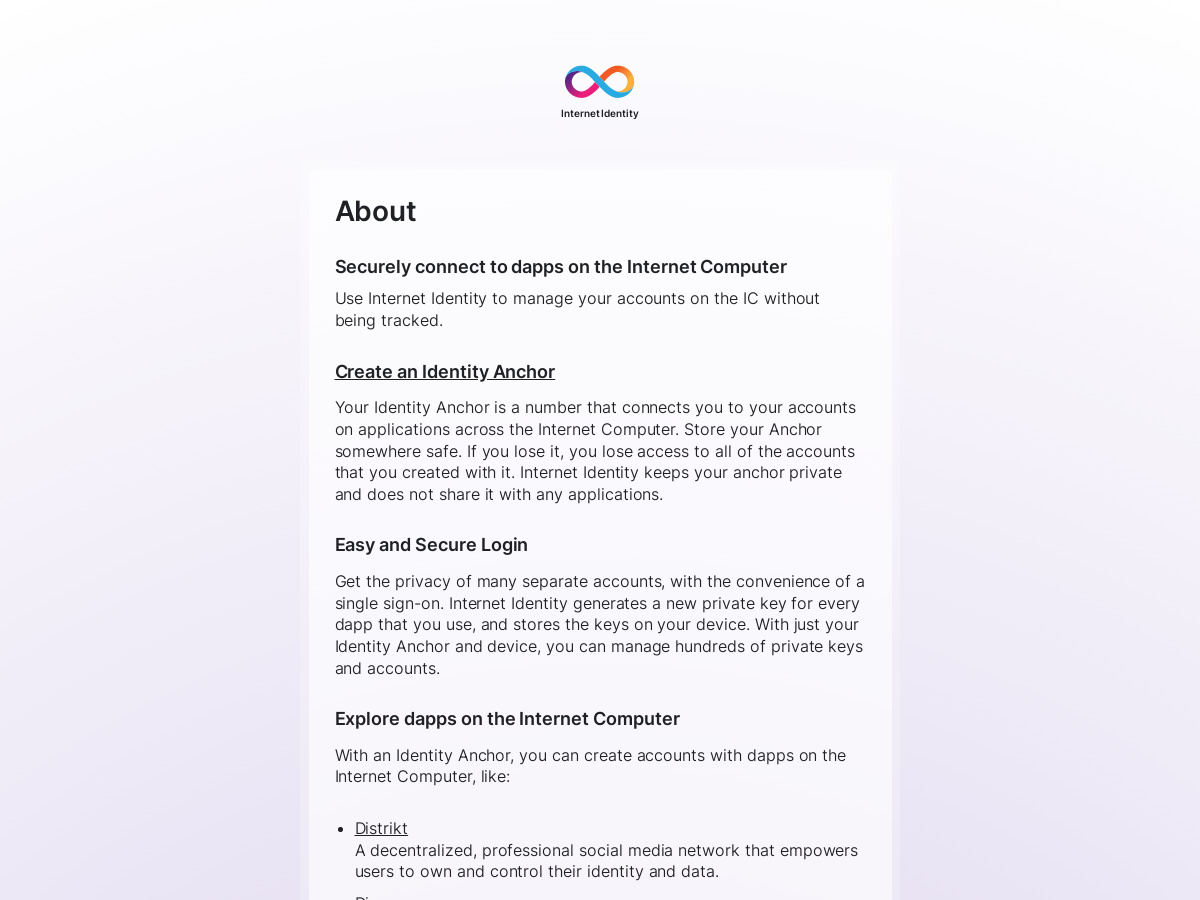
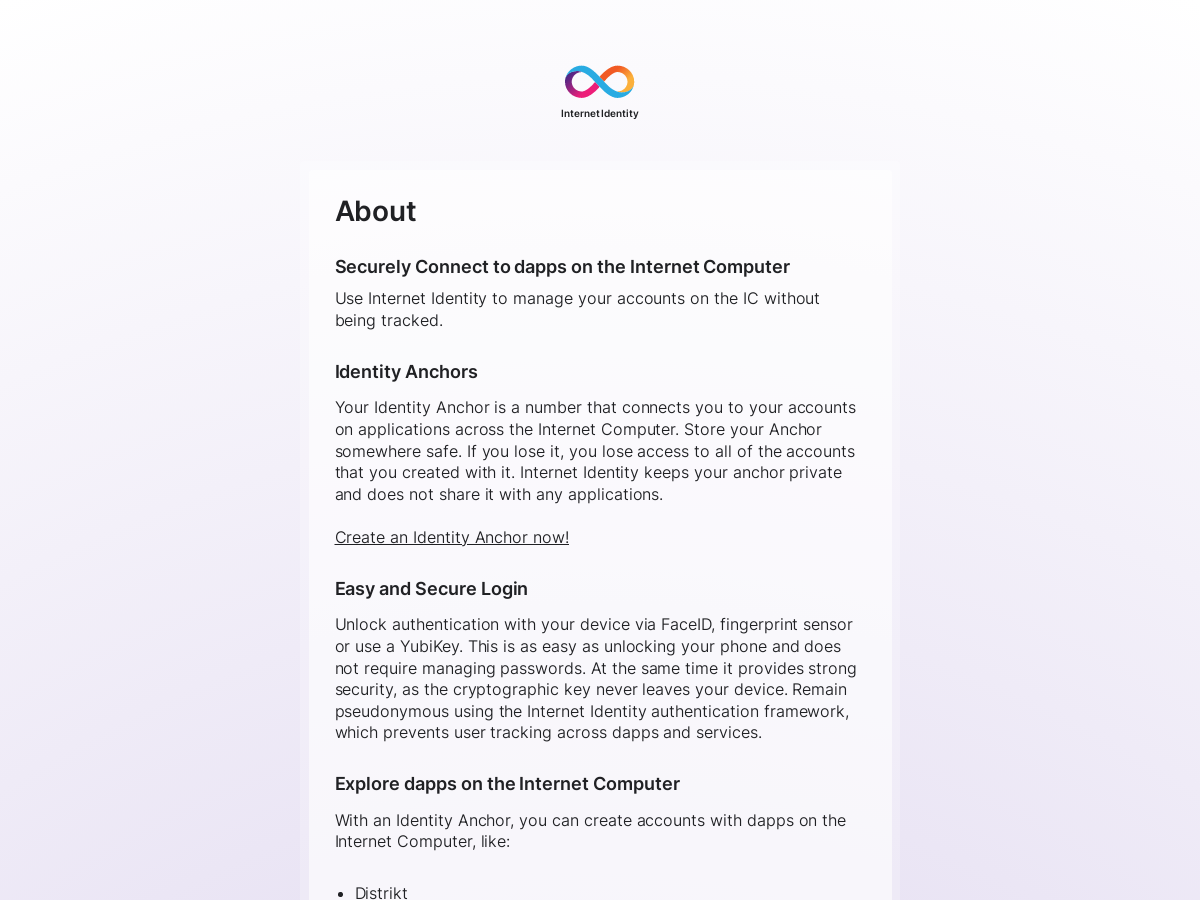
Update about text (#1187)
* Update about text

This fixes and clarifies a few paragraphs in the about page.

* 🤖 Selenium screenshots auto-update

---------

Changed region(s): [[0.2775, 0.5911, 0.7092, 1.0], [0.3392, 0.28, 0.6475, 0.3111], [0.2775, 0.4044, 0.4625, 0.4356]]

diff --git a/src/frontend/src/flows/about/index.ts b/src/frontend/src/flows/about/index.ts
@@ -6,30 +6,32 @@ import { mainWindow } from "../../components/mainWindow";
 const aboutContentSlot = html`
   <h1 class="t-title t-title--main">About</h1>
   <div class="l-stack">
-    <h2 class="t-title">Securely connect to dapps on the Internet Computer</h2>
+    <h2 class="t-title">Securely Connect to dapps on the Internet Computer</h2>
     <p class="t-lead">
       Use Internet Identity to manage your accounts on the IC without being
       tracked.
     </p>
   </div>
   <div class="l-stack">
-    <h2 class="t-title"><a href="/">Create an Identity Anchor</a></h2>
+    <h2 class="t-title">Identity Anchors</h2>
     <p class="t-paragraph">
       Your Identity Anchor is a number that connects you to your accounts on
       applications across the Internet Computer. Store your Anchor somewhere
       safe. If you lose it, you lose access to all of the accounts that you
       created with it. Internet Identity keeps your anchor private and does not
-      share it with any applications.
+      share it with any applications.<br /><br />
+      <a href="/">Create an Identity Anchor now!</a>
     </p>
   </div>
   <div class="l-stack">
     <h2 class="t-title">Easy and Secure Login</h2>
     <p class="t-paragraph">
-      Get the privacy of many separate accounts, with the convenience of a
-      single sign-on. Internet Identity generates a new private key for every
-      dapp that you use, and stores the keys on your device. With just your
-      Identity Anchor and device, you can manage hundreds of private keys and
-      accounts.
+      Unlock authentication with your device via FaceID, fingerprint sensor or
+      use a YubiKey. This is as easy as unlocking your phone and does not
+      require managing passwords. At the same time it provides strong security,
+      as the cryptographic key never leaves your device. Remain pseudonymous
+      using the Internet Identity authentication framework, which prevents user
+      tracking across dapps and services.
     </p>
   </div>
   <div class="l-stack">
@@ -52,11 +54,8 @@ const aboutContentSlot = html`
         </p>
       </li>
       <li class="c-list__item">
-        <a
-          href="https://dscvr.ic0.app/"
-          target="_blank"
-          rel="noopener noreferrer"
-          >Discovr</a
+        <a href="https://dscvr.one/" target="_blank" rel="noopener noreferrer"
+          >DSCVR</a
         >
         <p>
           A decentralized social media platform that rewards users for their
